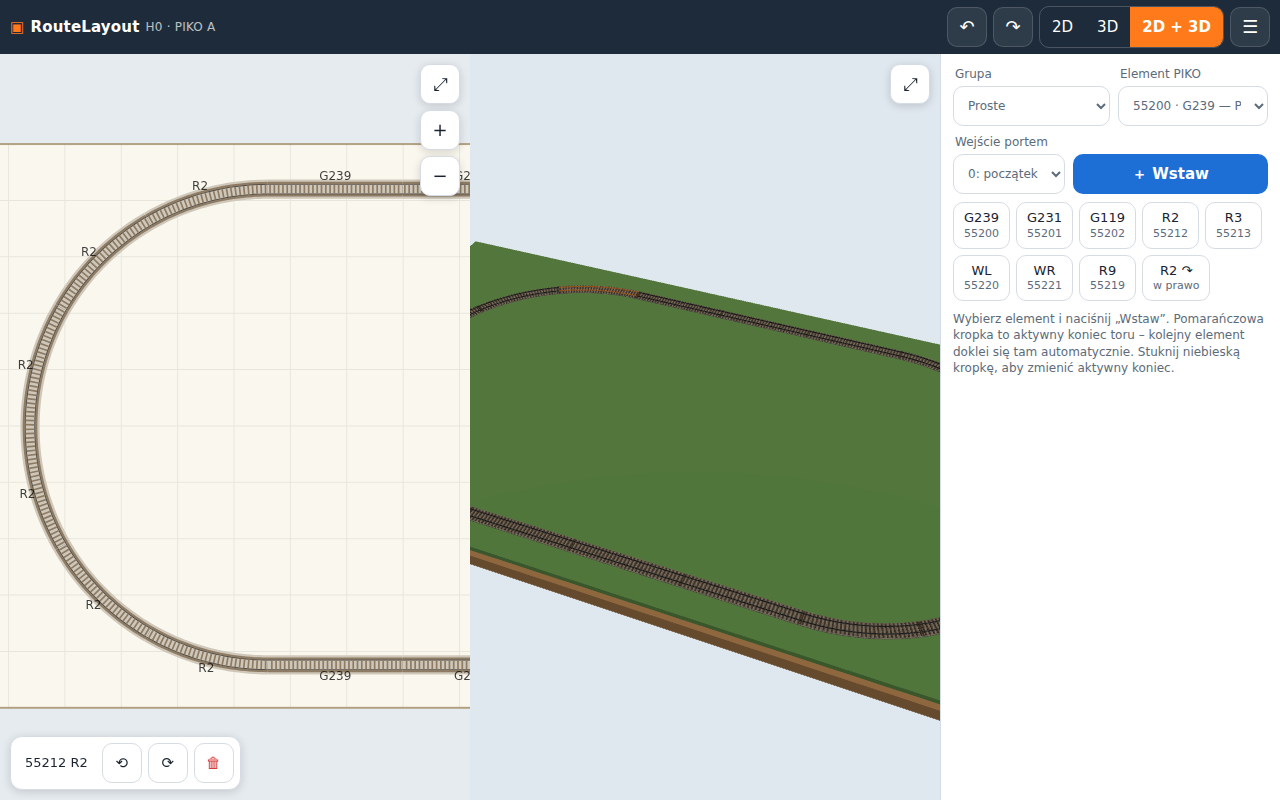
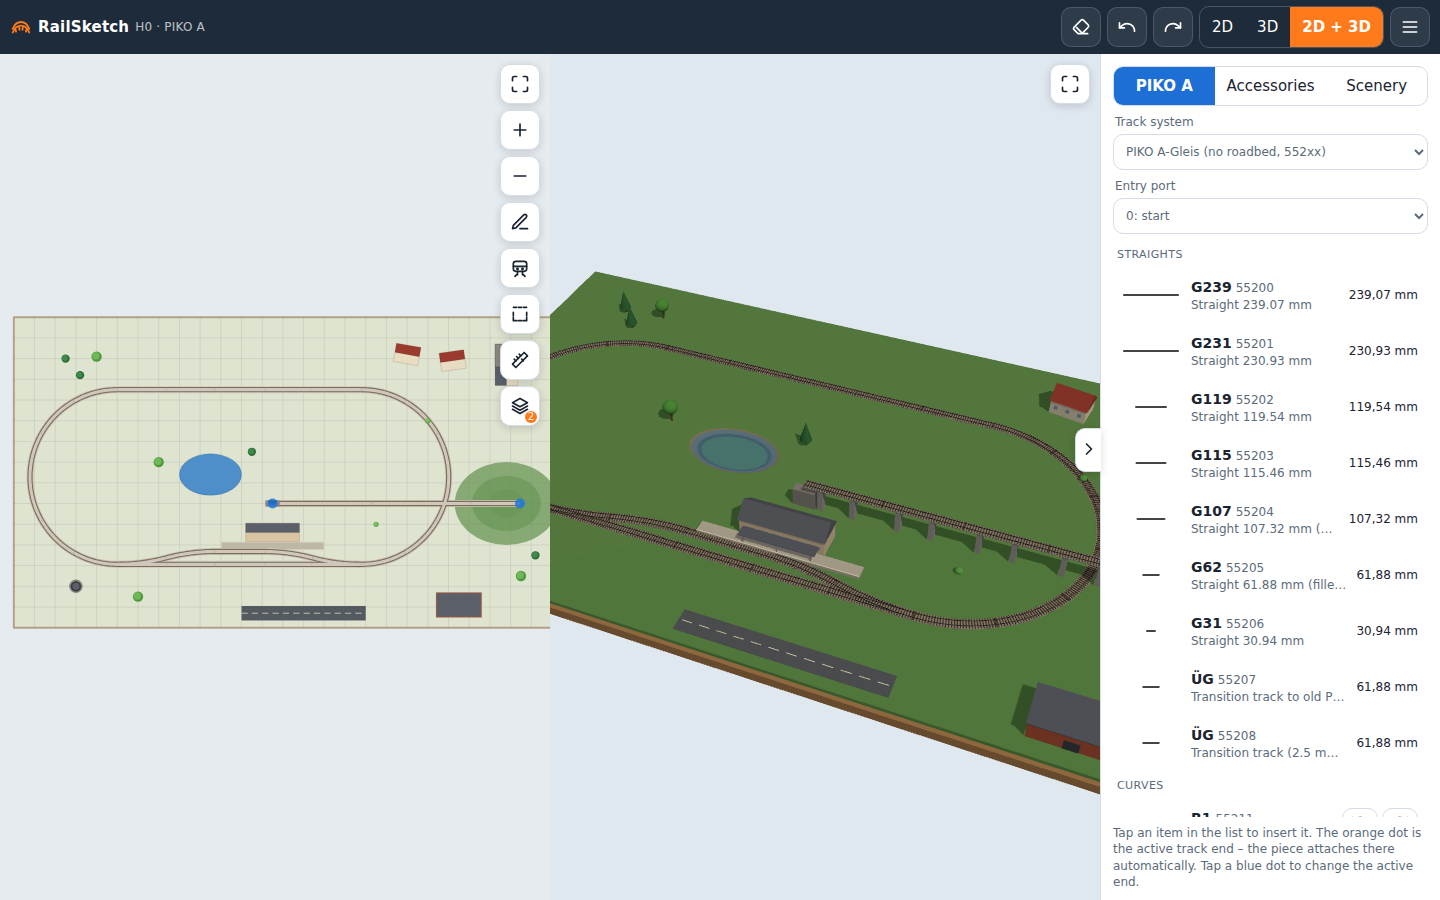
README: new screenshots of the RailSketch UI
Desktop split view of a station layout with a passing siding and a
viaduct, sketch before and after fitting, 3D preview, test run, menu
with feasibility check and shopping list, phone view. The old scenery
screenshot is replaced by the 3D view.

diff --git a/README.md b/README.md
@@ -4,9 +4,21 @@
 
 A web app (HTML5, ES modules, Canvas 2D + three.js) for designing H0 model railway layouts with a real-time 3D preview. Runs in Safari on iPad and iPhone (touch, pinch-zoom, "Add to Home Screen") as well as on desktop browsers. No build step, no backend, no account — your layout is saved in the browser.
 
-![RailSketch on desktop: 2D editor next to the 3D preview](docs/screenshot-desktop.png)
+![RailSketch on desktop: 2D plan of a small station layout next to the 3D preview](docs/screenshot-desktop.png)
 
-![Scenery objects in the 3D preview](docs/screenshot-scenery.png)
+## Screenshots
+
+| Sketch it… | …and get real PIKO pieces |
+|---|---|
+| ![Freehand sketch of a track with a branch, drawn over the guide grid](docs/screenshot-sketch.png) | ![The same sketch fitted with straights, R2 curves and a right turnout](docs/screenshot-sketch-result.png) |
+
+| 3D preview | Test run |
+|---|---|
+| ![3D preview: station, platform, viaduct on piers, road, pond and trees](docs/screenshot-3d.png) | ![A train running on the layout in 2D and 3D](docs/screenshot-train.png) |
+
+| Menu: feasibility check and shopping list | iPhone |
+|---|---|
+| ![Menu with board settings, rolling stock, feasibility check and bill of materials with "have" and "buy" columns](docs/screenshot-menu.png) | ![RailSketch on a phone: 2D plan above the palette](docs/screenshot-phone.png) |
 
 ## Features
 
